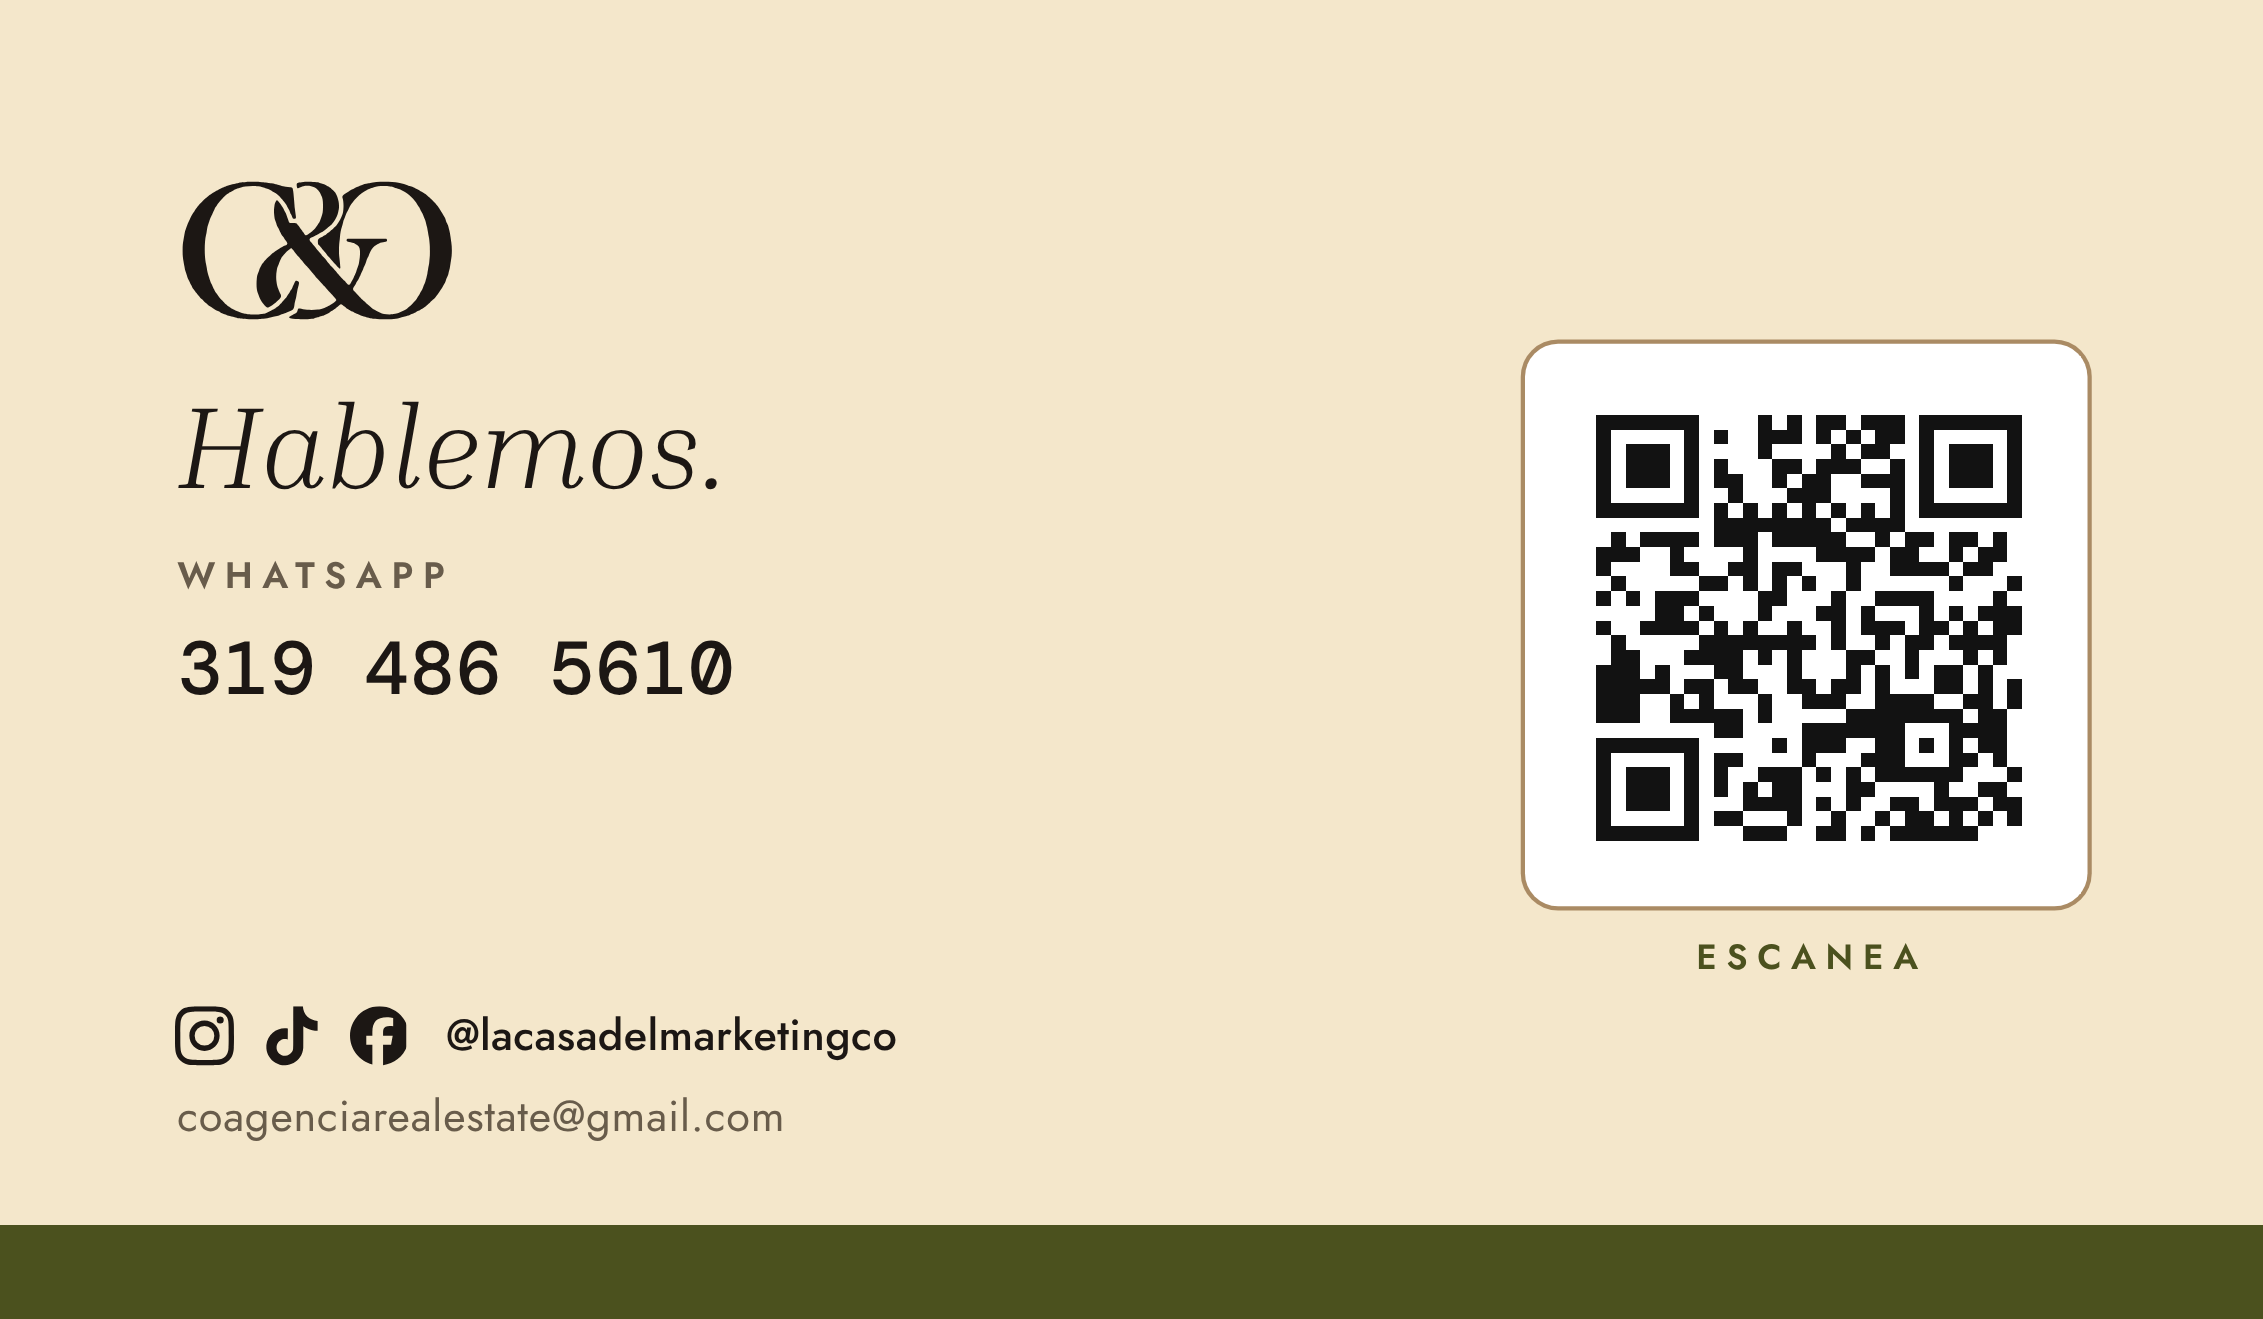
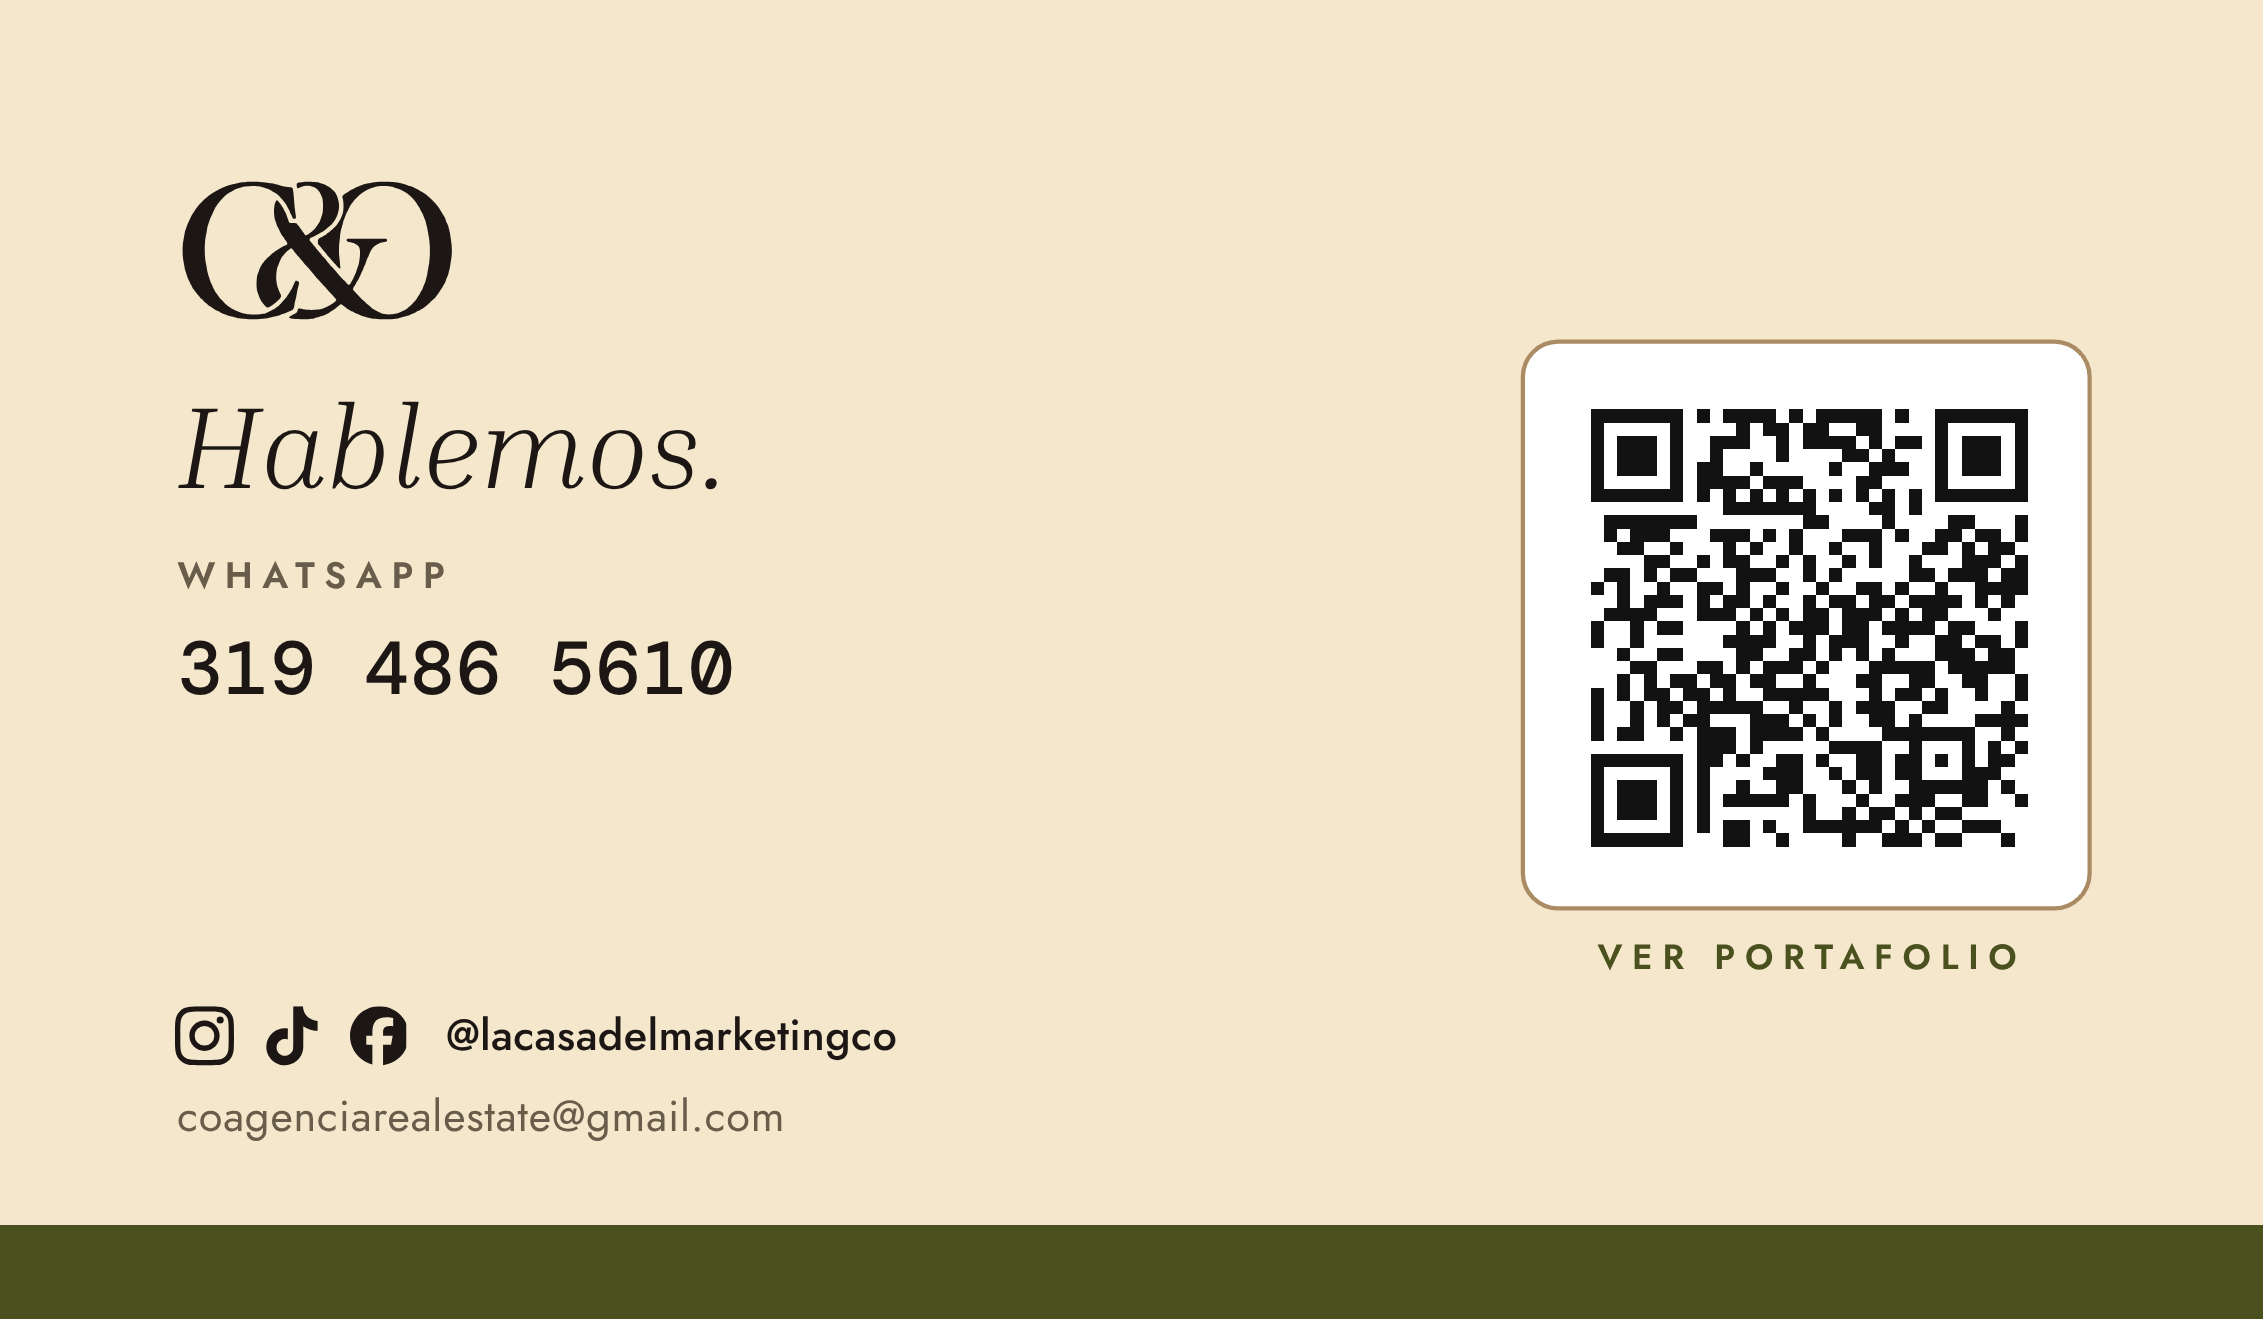
El QR de la tarjeta ahora abre el portafolio lacasadelmarketing.netlify.app
Texto bajo el QR cambiado a "Ver portafolio" y QR suelto renombrado.

Claude-Session: https://claude.ai/code/session_01JcteWRU9o6GhhBkZY5iHnB

Changed region(s): [[0.6805, 0.3108, 0.897, 0.6528], [0.7114, 0.7149, 0.897, 0.746]]

diff --git a/tarjetas-cyo/tarjeta-cyo.html b/tarjetas-cyo/tarjeta-cyo.html
@@ -117,13 +117,13 @@ html,body{background:var(--fondo-pantalla)}
         </div>
       </div>
       <div class="bloque-qr">
-        <div class="ficha-qr"><svg class="qr" viewBox="0 0 37 37" shape-rendering="crispEdges" xmlns="http://www.w3.org/2000/svg" role="img" aria-label="QR a WhatsApp 319 486 5610"><rect width="37" height="37" fill="#FFFFFF"/><path fill="#121212" d="M4 4h7v1h-7zM15 4h1v1h-1zM17 4h1v1h-1zM19 4h2v1h-2zM22 4h3v1h-3zM26 4h7v1h-7zM4 5h1v1h-1zM10 5h1v1h-1zM12 5h1v1h-1zM15 5h3v1h-3zM19 5h1v1h-1zM21 5h1v1h-1zM23 5h2v1h-2zM26 5h1v1h-1zM32 5h1v1h-1zM4 6h1v1h-1zM6 6h3v1h-3zM10 6h1v1h-1zM15 6h1v1h-1zM20 6h1v1h-1zM22 6h2v1h-2zM26 6h1v1h-1zM28 6h3v1h-3zM32 6h1v1h-1zM4 7h1v1h-1zM6 7h3v1h-3zM10 7h1v1h-1zM12 7h1v1h-1zM16 7h2v1h-2zM19 7h3v1h-3zM24 7h1v1h-1zM26 7h1v1h-1zM28 7h3v1h-3zM32 7h1v1h-1zM4 8h1v1h-1zM6 8h3v1h-3zM10 8h1v1h-1zM12 8h2v1h-2zM16 8h1v1h-1zM18 8h2v1h-2zM22 8h3v1h-3zM26 8h1v1h-1zM28 8h3v1h-3zM32 8h1v1h-1zM4 9h1v1h-1zM10 9h1v1h-1zM13 9h1v1h-1zM17 9h3v1h-3zM24 9h1v1h-1zM26 9h1v1h-1zM32 9h1v1h-1zM4 10h7v1h-7zM12 10h1v1h-1zM14 10h1v1h-1zM16 10h1v1h-1zM18 10h1v1h-1zM20 10h1v1h-1zM22 10h1v1h-1zM24 10h1v1h-1zM26 10h7v1h-7zM12 11h8v1h-8zM21 11h4v1h-4zM5 12h1v1h-1zM7 12h4v1h-4zM12 12h3v1h-3zM16 12h5v1h-5zM23 12h1v1h-1zM25 12h2v1h-2zM28 12h2v1h-2zM31 12h1v1h-1zM4 13h3v1h-3zM9 13h1v1h-1zM14 13h1v1h-1zM19 13h4v1h-4zM24 13h2v1h-2zM28 13h1v1h-1zM30 13h2v1h-2zM4 14h1v1h-1zM9 14h2v1h-2zM13 14h2v1h-2zM16 14h2v1h-2zM21 14h1v1h-1zM24 14h4v1h-4zM29 14h2v1h-2zM5 15h1v1h-1zM11 15h2v1h-2zM14 15h1v1h-1zM16 15h1v1h-1zM18 15h1v1h-1zM21 15h1v1h-1zM28 15h1v1h-1zM32 15h1v1h-1zM4 16h1v1h-1zM6 16h1v1h-1zM8 16h3v1h-3zM15 16h2v1h-2zM20 16h1v1h-1zM23 16h4v1h-4zM31 16h1v1h-1zM8 17h2v1h-2zM11 17h1v1h-1zM15 17h1v1h-1zM19 17h2v1h-2zM22 17h1v1h-1zM26 17h1v1h-1zM28 17h1v1h-1zM30 17h3v1h-3zM4 18h1v1h-1zM7 18h4v1h-4zM12 18h1v1h-1zM14 18h1v1h-1zM17 18h1v1h-1zM20 18h1v1h-1zM22 18h3v1h-3zM26 18h2v1h-2zM29 18h1v1h-1zM31 18h2v1h-2zM5 19h1v1h-1zM11 19h8v1h-8zM20 19h1v1h-1zM23 19h1v1h-1zM25 19h2v1h-2zM28 19h4v1h-4zM5 20h2v1h-2zM10 20h4v1h-4zM15 20h1v1h-1zM17 20h1v1h-1zM21 20h2v1h-2zM25 20h1v1h-1zM29 20h1v1h-1zM31 20h1v1h-1zM4 21h3v1h-3zM8 21h1v1h-1zM12 21h2v1h-2zM17 21h1v1h-1zM21 21h1v1h-1zM23 21h1v1h-1zM25 21h1v1h-1zM27 21h2v1h-2zM30 21h1v1h-1zM4 22h5v1h-5zM10 22h2v1h-2zM13 22h2v1h-2zM17 22h2v1h-2zM20 22h2v1h-2zM23 22h1v1h-1zM27 22h2v1h-2zM30 22h1v1h-1zM32 22h1v1h-1zM4 23h3v1h-3zM9 23h1v1h-1zM11 23h1v1h-1zM15 23h1v1h-1zM18 23h3v1h-3zM23 23h4v1h-4zM29 23h2v1h-2zM32 23h1v1h-1zM4 24h3v1h-3zM9 24h5v1h-5zM15 24h1v1h-1zM21 24h8v1h-8zM30 24h2v1h-2zM12 25h2v1h-2zM18 25h7v1h-7zM28 25h4v1h-4zM4 26h7v1h-7zM16 26h1v1h-1zM18 26h3v1h-3zM23 26h2v1h-2zM26 26h1v1h-1zM28 26h1v1h-1zM30 26h2v1h-2zM4 27h1v1h-1zM10 27h1v1h-1zM12 27h2v1h-2zM18 27h1v1h-1zM22 27h3v1h-3zM28 27h2v1h-2zM31 27h1v1h-1zM4 28h1v1h-1zM6 28h3v1h-3zM10 28h1v1h-1zM12 28h1v1h-1zM15 28h3v1h-3zM19 28h1v1h-1zM21 28h1v1h-1zM23 28h6v1h-6zM32 28h1v1h-1zM4 29h1v1h-1zM6 29h3v1h-3zM10 29h1v1h-1zM12 29h1v1h-1zM14 29h1v1h-1zM16 29h2v1h-2zM21 29h2v1h-2zM27 29h1v1h-1zM30 29h2v1h-2zM4 30h1v1h-1zM6 30h3v1h-3zM10 30h1v1h-1zM14 30h4v1h-4zM19 30h1v1h-1zM21 30h1v1h-1zM24 30h2v1h-2zM27 30h3v1h-3zM31 30h2v1h-2zM4 31h1v1h-1zM10 31h1v1h-1zM12 31h2v1h-2zM17 31h1v1h-1zM20 31h1v1h-1zM23 31h1v1h-1zM25 31h2v1h-2zM28 31h1v1h-1zM30 31h1v1h-1zM32 31h1v1h-1zM4 32h7v1h-7zM14 32h3v1h-3zM19 32h2v1h-2zM22 32h1v1h-1zM24 32h6v1h-6z"/></svg></div>
-        <div class="escanea">Escanea</div>
+        <div class="ficha-qr"><svg class="qr" viewBox="0 0 41 41" shape-rendering="crispEdges" xmlns="http://www.w3.org/2000/svg" role="img" aria-label="QR al portafolio https://lacasadelmarketing.netlify.app/"><rect width="41" height="41" fill="#FFFFFF"/><path fill="#121212" d="M4 4h7v1h-7zM12 4h1v1h-1zM14 4h4v1h-4zM19 4h1v1h-1zM21 4h5v1h-5zM27 4h1v1h-1zM30 4h7v1h-7zM4 5h1v1h-1zM10 5h1v1h-1zM15 5h1v1h-1zM17 5h2v1h-2zM20 5h2v1h-2zM24 5h2v1h-2zM30 5h1v1h-1zM36 5h1v1h-1zM4 6h1v1h-1zM6 6h3v1h-3zM10 6h1v1h-1zM13 6h3v1h-3zM18 6h1v1h-1zM20 6h4v1h-4zM25 6h1v1h-1zM27 6h2v1h-2zM30 6h1v1h-1zM32 6h3v1h-3zM36 6h1v1h-1zM4 7h1v1h-1zM6 7h3v1h-3zM10 7h1v1h-1zM13 7h1v1h-1zM18 7h1v1h-1zM23 7h2v1h-2zM26 7h1v1h-1zM30 7h1v1h-1zM32 7h3v1h-3zM36 7h1v1h-1zM4 8h1v1h-1zM6 8h3v1h-3zM10 8h1v1h-1zM12 8h2v1h-2zM16 8h1v1h-1zM22 8h1v1h-1zM25 8h3v1h-3zM30 8h1v1h-1zM32 8h3v1h-3zM36 8h1v1h-1zM4 9h1v1h-1zM10 9h1v1h-1zM12 9h4v1h-4zM17 9h3v1h-3zM24 9h2v1h-2zM30 9h1v1h-1zM36 9h1v1h-1zM4 10h7v1h-7zM12 10h1v1h-1zM14 10h1v1h-1zM16 10h1v1h-1zM18 10h1v1h-1zM20 10h1v1h-1zM22 10h1v1h-1zM24 10h1v1h-1zM26 10h1v1h-1zM28 10h1v1h-1zM30 10h7v1h-7zM14 11h7v1h-7zM25 11h2v1h-2zM28 11h1v1h-1zM5 12h7v1h-7zM20 12h2v1h-2zM26 12h1v1h-1zM31 12h2v1h-2zM36 12h1v1h-1zM5 13h1v1h-1zM7 13h3v1h-3zM13 13h3v1h-3zM17 13h1v1h-1zM19 13h1v1h-1zM23 13h3v1h-3zM27 13h1v1h-1zM30 13h2v1h-2zM33 13h2v1h-2zM36 13h1v1h-1zM6 14h2v1h-2zM10 14h1v1h-1zM14 14h1v1h-1zM16 14h1v1h-1zM19 14h1v1h-1zM22 14h1v1h-1zM25 14h1v1h-1zM29 14h2v1h-2zM32 14h1v1h-1zM34 14h2v1h-2zM8 15h2v1h-2zM12 15h1v1h-1zM14 15h2v1h-2zM18 15h1v1h-1zM20 15h1v1h-1zM23 15h1v1h-1zM25 15h1v1h-1zM28 15h1v1h-1zM32 15h3v1h-3zM36 15h1v1h-1zM5 16h2v1h-2zM8 16h1v1h-1zM10 16h2v1h-2zM15 16h3v1h-3zM20 16h1v1h-1zM22 16h1v1h-1zM28 16h2v1h-2zM31 16h3v1h-3zM35 16h2v1h-2zM4 17h1v1h-1zM6 17h1v1h-1zM9 17h1v1h-1zM12 17h2v1h-2zM15 17h1v1h-1zM18 17h1v1h-1zM21 17h1v1h-1zM24 17h2v1h-2zM27 17h1v1h-1zM30 17h1v1h-1zM33 17h4v1h-4zM6 18h1v1h-1zM8 18h3v1h-3zM12 18h1v1h-1zM14 18h2v1h-2zM17 18h1v1h-1zM20 18h1v1h-1zM22 18h2v1h-2zM25 18h2v1h-2zM28 18h4v1h-4zM33 18h1v1h-1zM35 18h1v1h-1zM5 19h4v1h-4zM12 19h3v1h-3zM16 19h1v1h-1zM18 19h1v1h-1zM20 19h2v1h-2zM23 19h3v1h-3zM27 19h1v1h-1zM29 19h2v1h-2zM34 19h1v1h-1zM4 20h1v1h-1zM7 20h1v1h-1zM9 20h2v1h-2zM15 20h1v1h-1zM17 20h1v1h-1zM19 20h3v1h-3zM23 20h2v1h-2zM26 20h4v1h-4zM31 20h2v1h-2zM36 20h1v1h-1zM4 21h1v1h-1zM7 21h1v1h-1zM14 21h4v1h-4zM20 21h1v1h-1zM22 21h3v1h-3zM27 21h1v1h-1zM30 21h2v1h-2zM33 21h2v1h-2zM36 21h1v1h-1zM6 22h1v1h-1zM9 22h2v1h-2zM15 22h2v1h-2zM19 22h2v1h-2zM22 22h1v1h-1zM24 22h1v1h-1zM26 22h1v1h-1zM30 22h3v1h-3zM34 22h2v1h-2zM7 23h2v1h-2zM12 23h2v1h-2zM15 23h1v1h-1zM17 23h3v1h-3zM21 23h1v1h-1zM25 23h5v1h-5zM31 23h5v1h-5zM6 24h1v1h-1zM8 24h1v1h-1zM10 24h2v1h-2zM13 24h2v1h-2zM16 24h2v1h-2zM20 24h1v1h-1zM24 24h2v1h-2zM28 24h2v1h-2zM32 24h2v1h-2zM36 24h1v1h-1zM4 25h1v1h-1zM6 25h1v1h-1zM8 25h2v1h-2zM11 25h2v1h-2zM14 25h1v1h-1zM17 25h5v1h-5zM25 25h1v1h-1zM27 25h2v1h-2zM30 25h1v1h-1zM33 25h1v1h-1zM36 25h1v1h-1zM4 26h1v1h-1zM7 26h1v1h-1zM9 26h2v1h-2zM12 26h5v1h-5zM19 26h1v1h-1zM22 26h1v1h-1zM24 26h3v1h-3zM29 26h2v1h-2zM35 26h1v1h-1zM4 27h1v1h-1zM7 27h1v1h-1zM9 27h1v1h-1zM11 27h2v1h-2zM16 27h3v1h-3zM20 27h1v1h-1zM22 27h1v1h-1zM25 27h2v1h-2zM28 27h1v1h-1zM33 27h4v1h-4zM4 28h1v1h-1zM6 28h2v1h-2zM10 28h1v1h-1zM12 28h3v1h-3zM16 28h4v1h-4zM21 28h1v1h-1zM26 28h7v1h-7zM35 28h1v1h-1zM12 29h3v1h-3zM16 29h1v1h-1zM22 29h4v1h-4zM28 29h1v1h-1zM32 29h1v1h-1zM34 29h1v1h-1zM36 29h1v1h-1zM4 30h7v1h-7zM12 30h2v1h-2zM15 30h1v1h-1zM18 30h2v1h-2zM21 30h1v1h-1zM24 30h2v1h-2zM27 30h2v1h-2zM30 30h1v1h-1zM32 30h1v1h-1zM34 30h2v1h-2zM4 31h1v1h-1zM10 31h1v1h-1zM12 31h1v1h-1zM17 31h3v1h-3zM22 31h1v1h-1zM24 31h2v1h-2zM27 31h2v1h-2zM32 31h3v1h-3zM4 32h1v1h-1zM6 32h3v1h-3zM10 32h1v1h-1zM12 32h1v1h-1zM15 32h1v1h-1zM18 32h2v1h-2zM23 32h1v1h-1zM25 32h1v1h-1zM28 32h6v1h-6zM35 32h1v1h-1zM4 33h1v1h-1zM6 33h3v1h-3zM10 33h1v1h-1zM12 33h1v1h-1zM14 33h5v1h-5zM20 33h1v1h-1zM24 33h1v1h-1zM27 33h3v1h-3zM32 33h2v1h-2zM36 33h1v1h-1zM4 34h1v1h-1zM6 34h3v1h-3zM10 34h1v1h-1zM12 34h1v1h-1zM20 34h1v1h-1zM23 34h1v1h-1zM25 34h2v1h-2zM28 34h1v1h-1zM30 34h2v1h-2zM4 35h1v1h-1zM10 35h1v1h-1zM12 35h1v1h-1zM14 35h2v1h-2zM17 35h1v1h-1zM20 35h6v1h-6zM27 35h1v1h-1zM29 35h1v1h-1zM32 35h3v1h-3zM4 36h7v1h-7zM14 36h2v1h-2zM18 36h1v1h-1zM23 36h1v1h-1zM26 36h3v1h-3zM30 36h2v1h-2zM35 36h1v1h-1z"/></svg></div>
+        <div class="escanea">Ver portafolio</div>
       </div>
     </div>
     <div class="banda"></div>
   </section>
 </div>
-<p class="nota">Tarjeta 90 × 50 mm · archivo de impresión con 3 mm de sangrado. El QR abre <a href="https://wa.me/573194865610">https://wa.me/573194865610</a>: es estático, no depende de ningún servicio y no se vence.</p>
+<p class="nota">Tarjeta 90 × 50 mm · archivo de impresión con 3 mm de sangrado. El QR abre <a href="https://lacasadelmarketing.netlify.app/">https://lacasadelmarketing.netlify.app/</a>: es estático, no pasa por ningún servicio de redirección y no se vence.</p>
 </body>
 </html>

diff --git a/tarjetas-cyo/plantilla.html b/tarjetas-cyo/plantilla.html
@@ -110,12 +110,12 @@ html,body{background:var(--fondo-pantalla)}
       </div>
       <div class="bloque-qr">
         <div class="ficha-qr"><!--QR--></div>
-        <div class="escanea">Escanea</div>
+        <div class="escanea">Ver portafolio</div>
       </div>
     </div>
     <div class="banda"></div>
   </section>
 </div>
-<p class="nota">Tarjeta 90 × 50 mm · archivo de impresión con 3 mm de sangrado. El QR abre <a href="__ENLACE__">__ENLACE__</a>: es estático, no depende de ningún servicio y no se vence.</p>
+<p class="nota">Tarjeta 90 × 50 mm · archivo de impresión con 3 mm de sangrado. El QR abre <a href="__ENLACE__">__ENLACE__</a>: es estático, no pasa por ningún servicio de redirección y no se vence.</p>
 </body>
 </html>

diff --git a/tarjetas-cyo/build.py b/tarjetas-cyo/build.py
@@ -1,6 +1,6 @@
 """Genera la tarjeta de presentación de C&O (HTML imprimible con todo embebido).
 
-El QR es estático: el enlace va escrito dentro del propio código, no pasa por
+El QR es estático (abre el portafolio): el enlace va escrito dentro del propio código, no pasa por
 ningún servicio de redirección, así que no caduca nunca.
 
 Uso: python3 build.py  ->  tarjeta-cyo.html
@@ -13,8 +13,7 @@ import segno
 AQUI = pathlib.Path(__file__).parent
 ASSETS = AQUI / "assets"
 
-TELEFONO = "573194865610"            # +57 319 486 5610
-ENLACE = f"https://wa.me/{TELEFONO}"  # abre el chat de WhatsApp con ese número
+ENLACE = "https://lacasadelmarketing.netlify.app/"  # el QR abre el portafolio
 TELEFONO_VISIBLE = "319 486 5610"
 USUARIO = "@lacasadelmarketingco"
 CORREO = "coagenciarealestate@gmail.com"
@@ -113,7 +112,7 @@ def qr_svg():
                 x += 1
     return (
         f'<svg class="qr" viewBox="0 0 {n} {n}" shape-rendering="crispEdges" '
-        f'xmlns="http://www.w3.org/2000/svg" role="img" aria-label="QR a WhatsApp {TELEFONO_VISIBLE}">'
+        f'xmlns="http://www.w3.org/2000/svg" role="img" aria-label="QR al portafolio {ENLACE}">'
         f'<rect width="{n}" height="{n}" fill="#FFFFFF"/>'
         f'<path fill="#121212" d="{"".join(trazos)}"/></svg>'
     )
